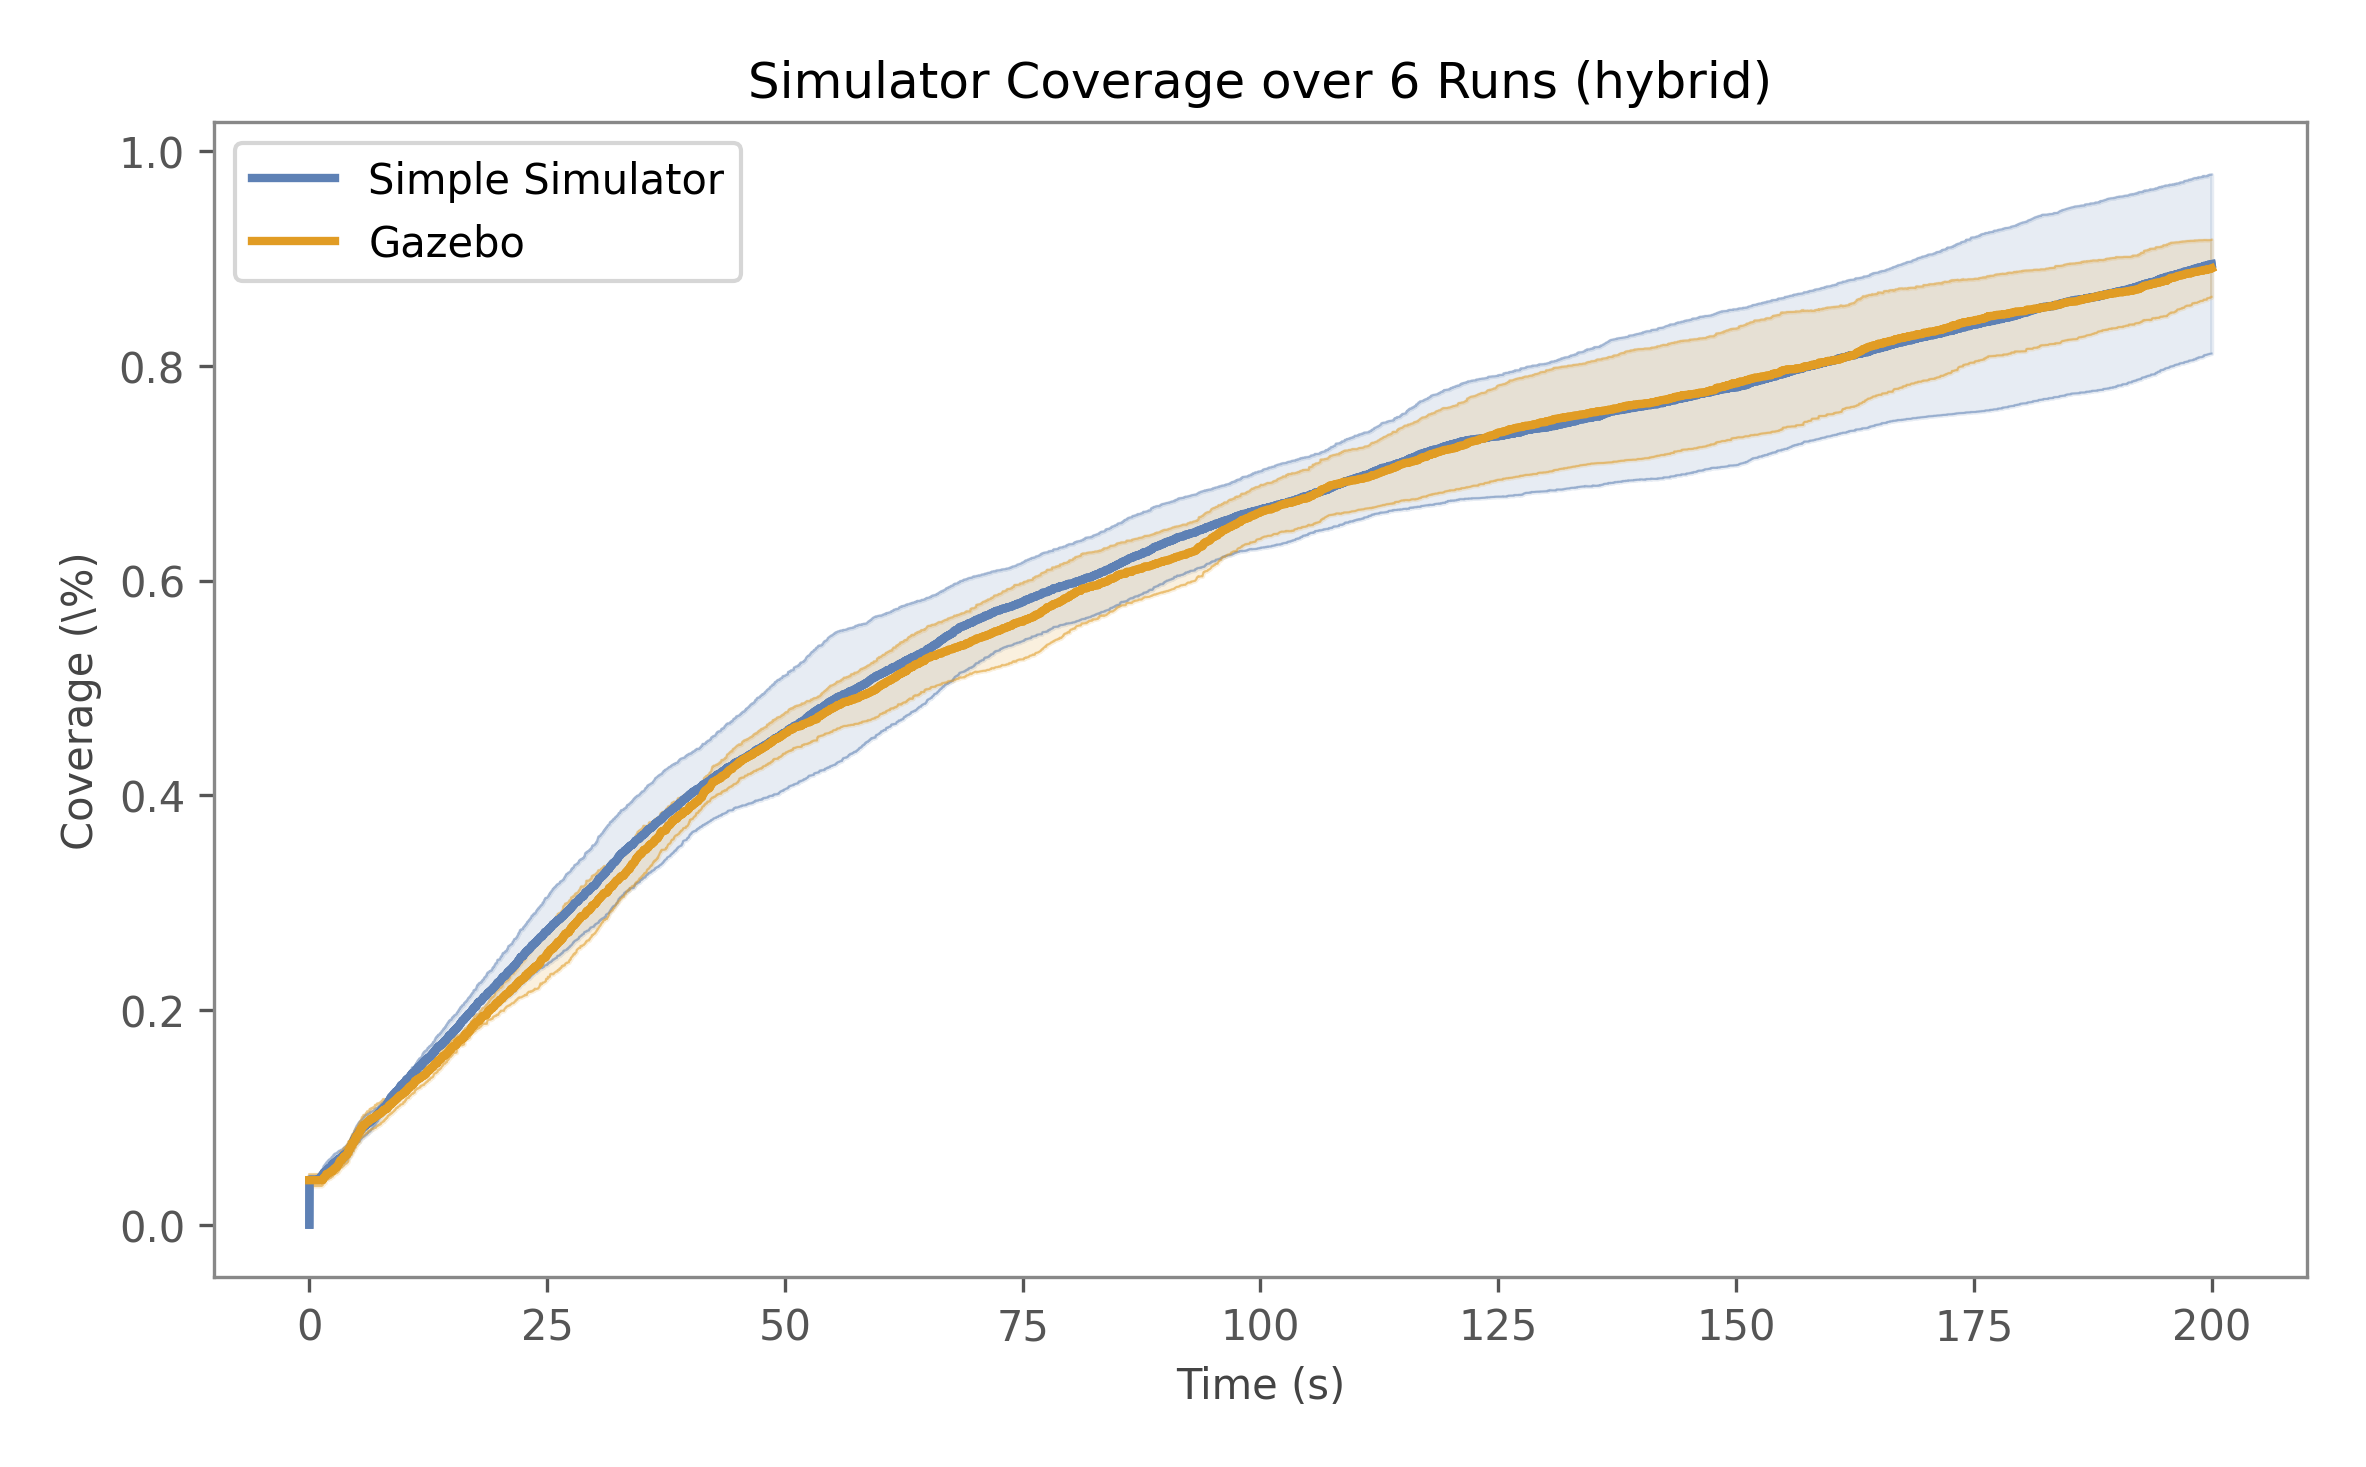
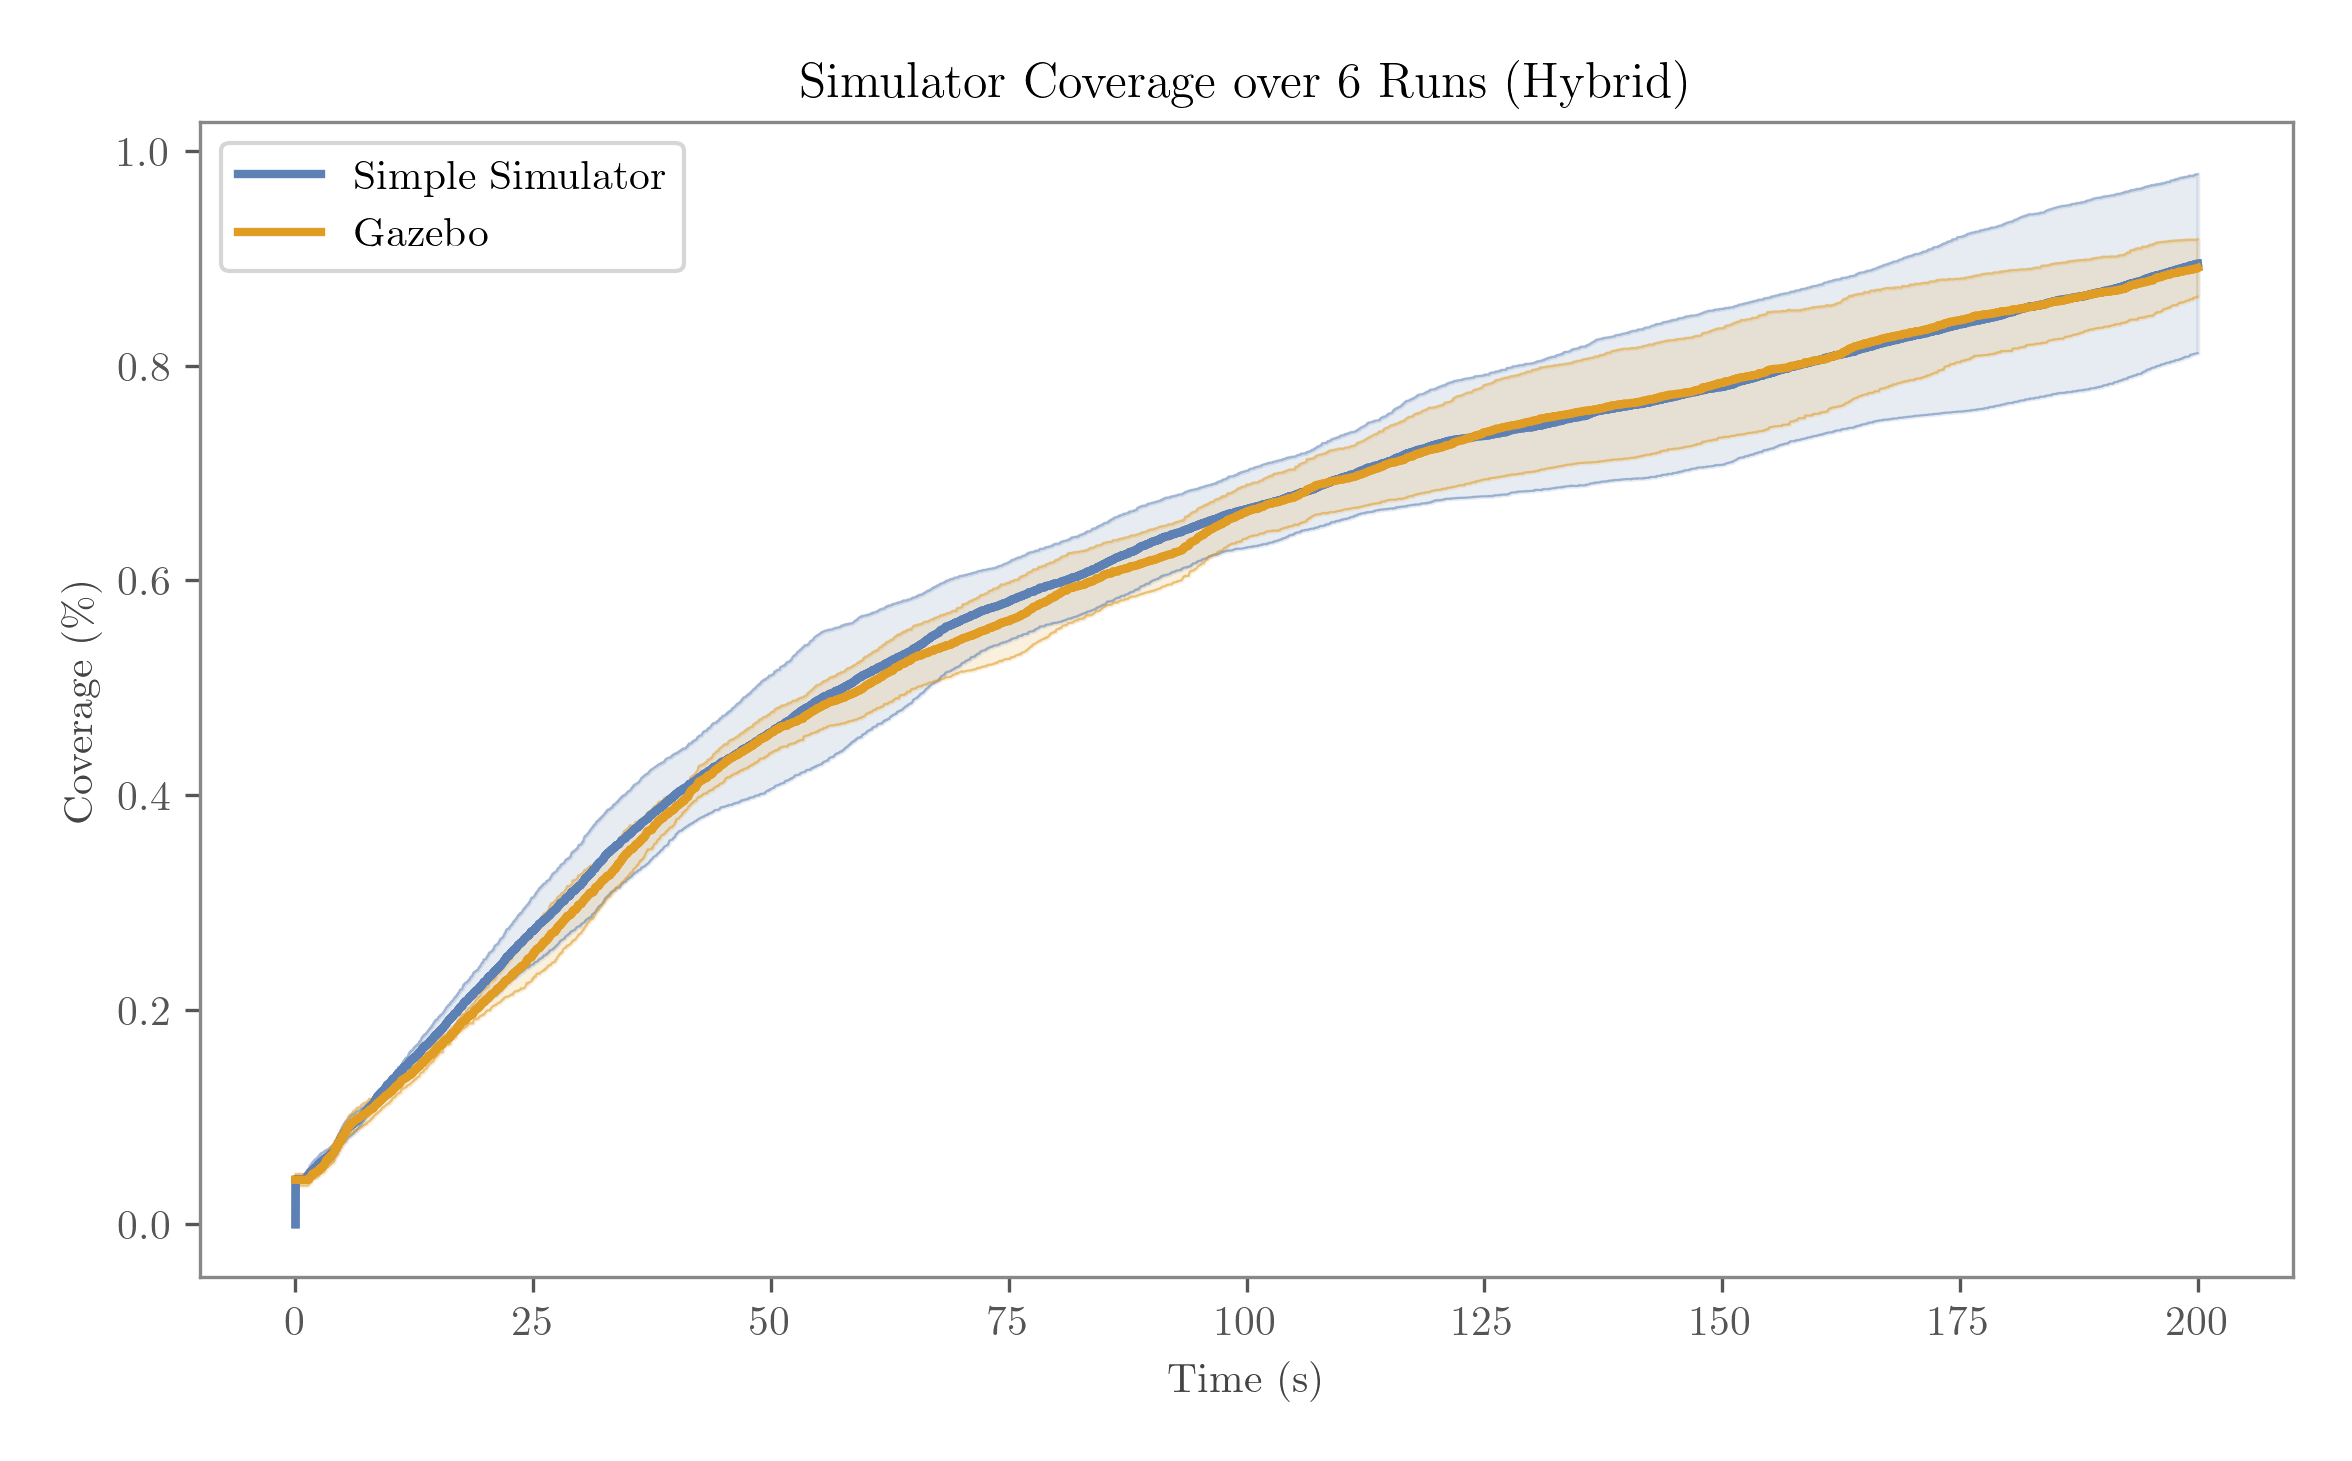
report: Fix a few TODO's

diff --git a/plotting/report/gazebo_vs_simple_sim.py b/plotting/report/gazebo_vs_simple_sim.py
@@ -25,7 +25,7 @@ FIG_DIR = bp.repo_path("report", "figures", "plots")
 
 
 def main():
-    avg_diff_ratios: list[tuple[pl.DataFrame, str]] = []
+    # avg_diff_ratios: list[tuple[pl.DataFrame, str]] = []
     avg_diffs: list[tuple[pl.DataFrame, str]] = []
     for behavior, behavior_name in BEHAVIORS:
 
@@ -54,7 +54,7 @@ def main():
             res = bp.run_sim(scenario)
 
             bp.plot_paths(
-                res, f"Simple Sim Paths ({behavior_name}) ({i + 1} of {RUNS})"
+                res, f"Simple Sim Paths ({behavior_name.title()}) ({i + 1} of {RUNS})"
             )
 
             simple_results.append(res)
@@ -71,7 +71,9 @@ def main():
 
             res = bp.run_ros(scenario, headless=True)
 
-            bp.plot_paths(res, f"ROS 2 Paths ({behavior_name}) ({i + 1} of {RUNS})")
+            bp.plot_paths(
+                res, f"ROS 2 Paths ({behavior_name.title()}) ({i + 1} of {RUNS})"
+            )
 
             ros_results.append(res)
 
@@ -88,17 +90,17 @@ def main():
         simple_collection = bp.ResultCollection("Simple Simulator", simple_results)
         gazebo_collection = bp.ResultCollection("Gazebo", ros_results)
 
-        avg_diff_ratio = diff_radio(
-            gazebo_collection.avg_df(), simple_collection.avg_df()
-        )
-        avg_diff_ratios.append((avg_diff_ratio, behavior_name))
+        # avg_diff_ratio = diff_radio(
+        #     gazebo_collection.avg_df(), simple_collection.avg_df()
+        # )
+        # avg_diff_ratios.append((avg_diff_ratio, behavior_name))
 
         avg_diff = diff(gazebo_collection.avg_df(), simple_collection.avg_df())
         avg_diffs.append((avg_diff, behavior_name))
 
         src = bp.plot_coverage(
             [simple_collection, gazebo_collection],
-            f"Simulator Coverage over {RUNS} Runs ({behavior_name})",
+            f"Simulator Coverage over {RUNS} Runs ({behavior_name.title()})",
         )
         dst = os.path.join(
             FIG_DIR,
@@ -110,8 +112,8 @@ def main():
 
         print(f"Copied plot to '{dst}'")
     # print("Average coverage diff ratios:", avg_diff_ratios)
-    bp.plot_avg_coverage_diff(avg_diff_ratios, "Coverage Diff Ratios")
-    bp.plot_avg_coverage_diff(avg_diffs, "Coverage Diff")
+    # bp.plot_avg_coverage_diff(avg_diff_ratios, "Coverage Diff Ratios")
+    bp.plot_avg_coverage_diff(avg_diffs, f"Coverage Diffs of Averages ({RUNS} Runs)")
 
 
 def diff_radio(base: pl.DataFrame, compare: pl.DataFrame) -> pl.DataFrame:

diff --git a/report/sections/results.tex b/report/sections/results.tex
@@ -27,12 +27,12 @@ As this project is based in a Simulator-to-Simulator approach, it is important t
   \centering
   \begin{subfigure}[b]{0.45\textwidth}
     \centering
-    \includegraphics[width=\textwidth]{./figures/consistency/simple-sim-paths-(after-10s)_rough_tune.png}
+    \includegraphics[width=\textwidth]{./figures/plots/consistency/simple-sim-paths-(after-10s).png}
     \caption{Simple Sim}
   \end{subfigure}
   \begin{subfigure}[b]{0.45\textwidth}
     \centering
-    \includegraphics[width=\textwidth]{./figures/consistency/ros-2-paths-(after-10s)_rough_tune.png}
+    \includegraphics[width=\textwidth]{./figures/plots/consistency/ros-2-paths-(after-10s).png}
     \caption{ROS 2 Gazebo}
   \end{subfigure}
   \caption{Path when running circular behavior in \texttt{simple\_sim} and ROS 2 Gazebo.}
@@ -42,7 +42,6 @@ As this project is based in a Simulator-to-Simulator approach, it is important t
 \subsubsection{Pathing}
 A more complex evaluation was performed by comparing search behavior involving dynamic path planning. As shown in \cref{fig:coverage-benchmark}, the coverage curves produced by each simulator are closely aligned, particularly in early and mid-stage exploration. Minor deviations are attributed to non-determinism in Gazebo and slight differences in physics and sensor modeling.
 
-% TODO: New picture with latex installed
 \begin{figure}[H]
   \centering
   \begin{tabular}{cc}
@@ -51,14 +50,13 @@ A more complex evaluation was performed by comparing search behavior involving d
     \includegraphics[width=0.45\textwidth]{./figures/plots/consistency/gazebo_vs_simple_sim_hybrid.png} &
     \includegraphics[width=0.45\textwidth]{./figures/plots/consistency/gazebo_vs_simple_sim_pure_pathing.png} \\
   \end{tabular}
-  \caption{Comparison of coverage over time between ROS 2 Gazebo and \texttt{simple\_sim}.}
+  \caption{Comparison of coverage with spread over time between ROS 2 Gazebo and \texttt{simple\_sim}.}
   \label{fig:coverage-benchmark-all}
 \end{figure}
 
-% TODO: New picture with y=0, and latex installed
 \begin{figure}[H]
     \begin{center}
-        \includegraphics[width=0.95\textwidth]{./figures/plots/consistency/coverage-diff.png}
+        \includegraphics[width=0.95\textwidth]{./figures/plots/consistency/coverage-diffs-of-averages-(6-runs).png}
     \end{center}
     \caption{Comparison of difference in coverage over time between ROS 2 Gazebo and \texttt{simple\_sim}.}
     \label{fig:coverage-benchmark-diff}

diff --git a/botplot/src/botplot/__init__.py b/botplot/src/botplot/__init__.py
@@ -810,12 +810,13 @@ def plot_coverage(
 def plot_avg_coverage_diff(results: list[tuple[pl.DataFrame, str]], title: str) -> str:
     file = os.path.join(plot_dir(), f"{title}.png")
     fig, ax = plt.subplots()
+    ax.axhline(0, color="gray", linestyle="--", linewidth=1)
     for df, behavior in results:
         ax.plot(df["time"], df["diff"], label=behavior)
     if len(results) > 1:
         ax.legend()
     ax.set_xlabel(r"Time (s)")
-    ax.set_ylabel(r"Coverage Diff (\%)")
+    ax.set_ylabel(r"Coverage Diff (\% points)")
     ax.set_title(title)
     return save_figure(fig, file)
 
